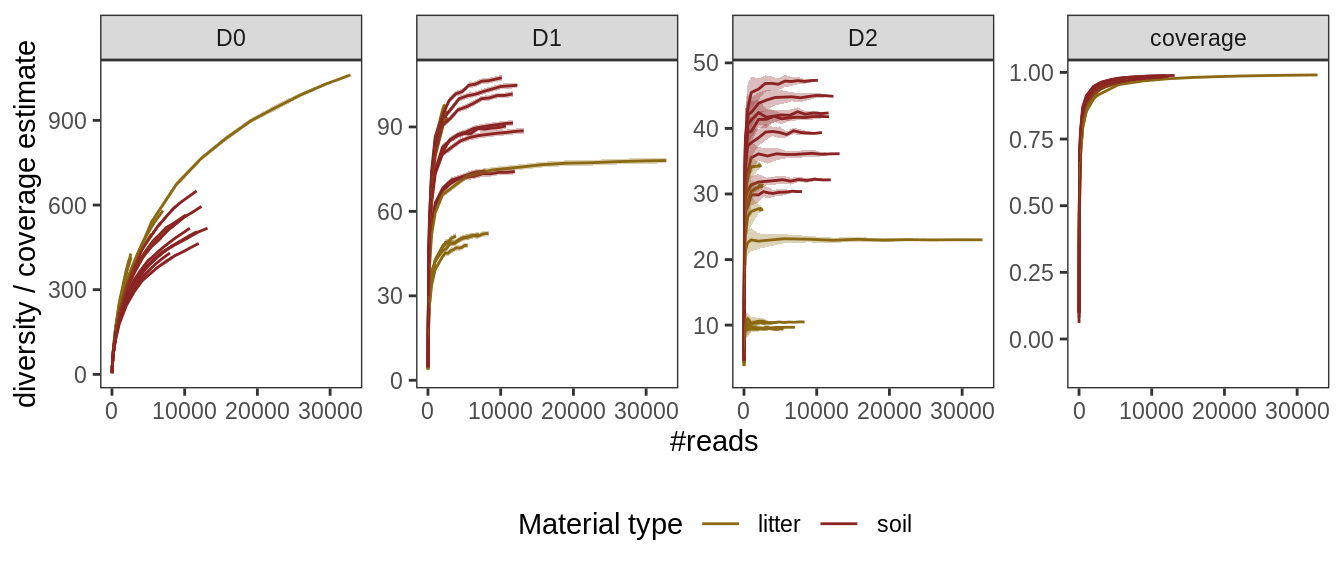
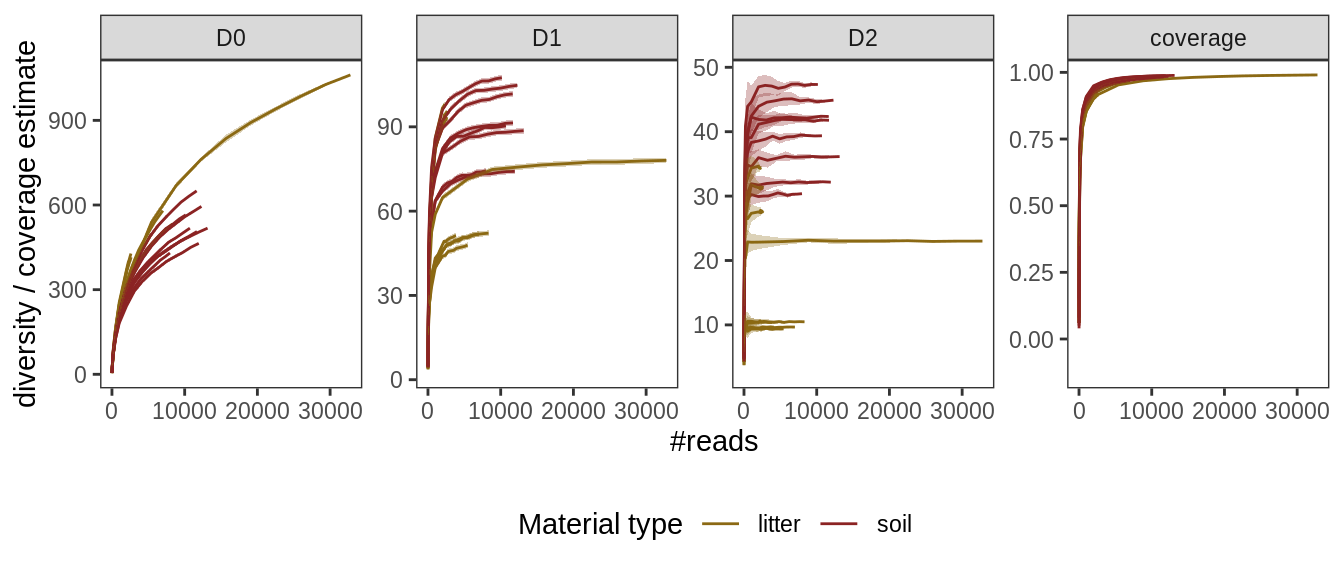
Deploy metabaRfactory/metabaR to github.com/metabaRfactory/metabaR.git:gh-pages

diff --git a/articles/metabaRF-vignette.html b/articles/metabaRF-vignette.html
@@ -79,7 +79,8 @@
 
       
 
-      </header><script src="metabaRF-vignette_files/kePrint-0.0.1/kePrint.js"></script><div class="row">
+      </header><script src="metabaRF-vignette_files/kePrint-0.0.1/kePrint.js"></script><link href="metabaRF-vignette_files/lightable-0.0.1/lightable.css" rel="stylesheet">
+<div class="row">
   <div class="col-md-9 contents">
     <div class="page-header toc-ignore">
       <h1 data-toc-skip>Let’s metabaR!</h1>
@@ -89,7 +90,7 @@
             <address class="author_afil">
       Evolution et Diversité Biologique (EDB UMR5174), Université Toulouse 3 Paul Sabatier, CNRS, IRD - Toulouse, France.<br><h4 class="author">Clément Lionnet, Frédéric Boyer</h4>
             <address class="author_afil">
-      Univ. Grenoble Alpes, CNRS, Univ. Savoie Mont Blanc, LECA, Laboratoire d’Ecologie Alpine, F-38000 Grenoble, France.<br><h4 class="date">2020-08-23</h4>
+      Univ. Grenoble Alpes, CNRS, Univ. Savoie Mont Blanc, LECA, Laboratoire d’Ecologie Alpine, F-38000 Grenoble, France.<br><h4 class="date">2020-09-03</h4>
       
       <small class="dont-index">Source: <a href="https://github.com/metabaRfactory/metabaR/blob/master/vignettes/metabaRF-vignette.Rmd"><code>vignettes/metabaRF-vignette.Rmd</code></a></small>
       <div class="hidden name"><code>metabaRF-vignette.Rmd</code></div>
@@ -126,7 +127,7 @@
 </ul>
 <p>To install <code>metabaR</code>, use :</p>
 <div class="sourceCode" id="cb1"><html><body><pre class="r"><span class="fu"><a href="https://rdrr.io/r/utils/install.packages.html">install.packages</a></span>(<span class="st">"devtools"</span>)
-<span class="kw pkg">devtools</span><span class="kw ns">::</span><span class="fu">install_github</span>(<span class="st">"metabaRactory/metabaR"</span>)</pre></body></html></div>
+<span class="kw pkg">devtools</span><span class="kw ns">::</span><span class="fu"><a href="https://devtools.r-lib.org//reference/remote-reexports.html">install_github</a></span>(<span class="st">"metabaRactory/metabaR"</span>)</pre></body></html></div>
 <p>And then load the package</p>
 <div class="sourceCode" id="cb2"><html><body><pre class="r"><span class="fu"><a href="https://rdrr.io/r/base/library.html">library</a></span>(<span class="no">metabaR</span>) <span class="co"># modify the name once we'll all agree on that</span></pre></body></html></div>
 </div>
@@ -381,19 +382,19 @@ These are the value of <span class="math inline">\(q\)</span> for which <code>me
 <div class="sourceCode" id="cb15"><html><body><pre class="r"><span class="no">soil_euk_h20.raref</span> <span class="kw">=</span> <span class="fu"><a href="https://rdrr.io/pkg/metabaR/man/hill_rarefaction.html">hill_rarefaction</a></span>(<span class="no">soil_euk_h20</span>, <span class="kw">nboot</span> <span class="kw">=</span> <span class="fl">20</span>, <span class="kw">nsteps</span> <span class="kw">=</span> <span class="fl">10</span>)
 <span class="fu"><a href="https://rdrr.io/r/utils/head.html">head</a></span>(<span class="no">soil_euk_h20.raref</span>$<span class="no">hill_table</span>)
 <span class="co">#&gt;      pcr_id reads     D0     D0.sd        D1    D1.sd        D2     D2.sd</span>
-<span class="co">#&gt; 1 H20-As_r1     5   4.65 0.5871429  4.537596 1.176790  4.531746 0.7524388</span>
-<span class="co">#&gt; 2 H20-As_r1    10   9.30 0.7326951  9.075192 1.106911  8.904762 1.0935478</span>
-<span class="co">#&gt; 3 H20-As_r1   100  51.25 4.0114966 37.238458 1.117569 27.022478 3.6506249</span>
-<span class="co">#&gt; 4 H20-As_r1   200  81.05 5.4529084 49.509507 1.093183 30.808417 2.9273821</span>
-<span class="co">#&gt; 5 H20-As_r1   500 138.25 6.8815161 62.715492 1.060236 33.391754 2.0118522</span>
-<span class="co">#&gt; 6 H20-As_r1  1000 201.20 7.1935644 73.316953 1.055629 35.530710 2.3918004</span>
+<span class="co">#&gt; 1 H20-As_r1     5   4.85 0.3663475  4.796321 1.106911  4.785714 0.5233536</span>
+<span class="co">#&gt; 2 H20-As_r1    10   8.70 1.0809353  8.285592 1.174801  8.040675 1.5124624</span>
+<span class="co">#&gt; 3 H20-As_r1   100  52.50 3.5168766 38.834288 1.104965 28.386305 3.8977531</span>
+<span class="co">#&gt; 4 H20-As_r1   200  78.45 4.6845210 48.304097 1.088265 31.174549 3.4821922</span>
+<span class="co">#&gt; 5 H20-As_r1   500 138.70 5.6577846 64.861087 1.064478 34.839245 2.7249144</span>
+<span class="co">#&gt; 6 H20-As_r1  1000 200.05 6.3035078 71.950104 1.053275 34.555516 2.3278296</span>
 <span class="co">#&gt;   coverage coverage.sd</span>
-<span class="co">#&gt; 1  0.14000 0.234857179</span>
-<span class="co">#&gt; 2  0.14000 0.146539019</span>
-<span class="co">#&gt; 3  0.66000 0.046566308</span>
-<span class="co">#&gt; 4  0.74675 0.026171248</span>
-<span class="co">#&gt; 5  0.84130 0.013981567</span>
-<span class="co">#&gt; 6  0.89900 0.006688561</span></pre></body></html></div>
+<span class="co">#&gt; 1   0.0600 0.146539019</span>
+<span class="co">#&gt; 2   0.2450 0.198613616</span>
+<span class="co">#&gt; 3   0.6550 0.040065735</span>
+<span class="co">#&gt; 4   0.7605 0.026252819</span>
+<span class="co">#&gt; 5   0.8461 0.014385300</span>
+<span class="co">#&gt; 6   0.8978 0.008010519</span></pre></body></html></div>
 <p>The <code>hill_rarefaction</code> function produces an object with several elements. The most relevant one is the <code>hill_table</code> a table indicating the <code>pcr_id</code>, the sequencing depth at which the <em>pcr</em> was resampled, and the corresponding diversity / coverage indices. The output of <code>hill_rarefaction</code> can be used to draw rarefaction curves.</p>
 <div class="sourceCode" id="cb16"><html><body><pre class="r"><span class="fu"><a href="https://rdrr.io/pkg/metabaR/man/hill_rarefaction.html">gghill_rarefaction</a></span>(<span class="no">soil_euk_h20.raref</span>)</pre></body></html></div>
 <p><img src="metabaRF-vignette_files/figure-html/gghill-1.png" width="672" style="display: block; margin: auto;"></p>

diff --git a/articles/metabaRF-vignette_files/lightable-0.0.1/lightable.css b/articles/metabaRF-vignette_files/lightable-0.0.1/lightable.css
@@ -1,0 +1,234 @@
+/*!
+ * lightable v0.0.1
+ * Copyright 2020 Hao Zhu
+ * Licensed under MIT (https://github.com/haozhu233/kableExtra/blob/master/LICENSE)
+ */
+
+.lightable-minimal {
+  border-collapse: separate;
+  border-spacing: 16px 1px;
+  width: 100%;
+  margin-bottom: 10px;
+}
+
+.lightable-minimal td {
+  margin-left: 5px;
+  margin-right: 5px;
+}
+
+.lightable-minimal th {
+  margin-left: 5px;
+  margin-right: 5px;
+}
+
+.lightable-minimal thead tr:last-child th {
+  border-bottom: 2px solid #00000050;
+  empty-cells: hide;
+
+}
+
+.lightable-minimal tbody tr:first-child td {
+  padding-top: 0.5em;
+}
+
+.lightable-minimal.lightable-hover tbody tr:hover {
+  background-color: #f5f5f5;
+}
+
+.lightable-minimal.lightable-striped tbody tr:nth-child(even) {
+  background-color: #f5f5f5;
+}
+
+.lightable-classic {
+  border-top: 0.16em solid #111111;
+  width: 100%;
+  margin-bottom: 10px;
+  margin: 10px 5px;
+}
+
+.lightable-classic caption {
+  color: #222222;
+}
+
+.lightable-classic td {
+  padding-left: 5px;
+  padding-right: 5px;
+  color: #222222;
+}
+
+.lightable-classic th {
+  padding-left: 5px;
+  padding-right: 5px;
+  font-weight: normal;
+  color: #222222;
+}
+
+.lightable-classic thead tr:last-child th {
+  border-bottom: 0.10em solid #111111;
+}
+
+.lightable-classic tbody tr:last-child td {
+  border-bottom: 0.14em solid #111111;
+}
+
+.lightable-classic.lightable-hover tbody tr:hover {
+  background-color: #F9EEC1;
+}
+
+.lightable-classic.lightable-striped tbody tr:nth-child(even) {
+  background-color: #f5f5f5;
+}
+
+.lightable-classic-2 {
+  border-top: 3px double #111111;
+  width: 100%;
+  margin-bottom: 10px;
+}
+
+.lightable-classic-2 caption {
+  color: #222222;
+}
+
+.lightable-classic-2 td {
+  padding-left: 5px;
+  padding-right: 5px;
+  color: #222222;
+}
+
+.lightable-classic-2 th {
+  padding-left: 5px;
+  padding-right: 5px;
+  font-weight: normal;
+  color: #222222;
+}
+
+.lightable-classic-2 tbody tr:last-child td {
+  border-bottom: 3px double #111111;
+}
+
+.lightable-classic-2 thead tr:last-child th {
+  border-bottom: 1px solid #111111;
+}
+
+.lightable-classic-2.lightable-hover tbody tr:hover {
+  background-color: #F9EEC1;
+}
+
+.lightable-classic-2.lightable-striped tbody tr:nth-child(even) {
+  background-color: #f5f5f5;
+}
+
+.lightable-material {
+  min-width: 100%;
+  white-space: nowrap;
+  table-layout: fixed;
+  font-family: Roboto, sans-serif;
+  border: 1px solid #EEE;
+  border-collapse: collapse;
+  margin-bottom: 10px;
+}
+
+.lightable-material th {
+  height: 56px;
+  padding-left: 16px;
+  padding-right: 16px;
+}
+
+.lightable-material td {
+  height: 52px;
+  padding-left: 16px;
+  padding-right: 16px;
+  border-top: 1px solid #eeeeee;
+}
+
+.lightable-material.lightable-hover tbody tr:hover {
+  background-color: #f5f5f5;
+}
+
+.lightable-material.lightable-striped tbody tr:nth-child(even) {
+  background-color: #f5f5f5;
+}
+
+.lightable-material.lightable-striped tbody td {
+  border: 0;
+}
+
+.lightable-material.lightable-striped thead tr:last-child th {
+  border-bottom: 1px solid #ddd;
+}
+
+.lightable-material-dark {
+  min-width: 100%;
+  white-space: nowrap;
+  table-layout: fixed;
+  font-family: Roboto, sans-serif;
+  border: 1px solid #FFFFFF12;
+  border-collapse: collapse;
+  margin-bottom: 10px;
+  background-color: #363640;
+}
+
+.lightable-material-dark th {
+  height: 56px;
+  padding-left: 16px;
+  padding-right: 16px;
+  color: #FFFFFF60;
+}
+
+.lightable-material-dark td {
+  height: 52px;
+  padding-left: 16px;
+  padding-right: 16px;
+  color: #FFFFFF;
+  border-top: 1px solid #FFFFFF12;
+}
+
+.lightable-material-dark.lightable-hover tbody tr:hover {
+  background-color: #FFFFFF12;
+}
+
+.lightable-material-dark.lightable-striped tbody tr:nth-child(even) {
+  background-color: #FFFFFF12;
+}
+
+.lightable-material-dark.lightable-striped tbody td {
+  border: 0;
+}
+
+.lightable-material-dark.lightable-striped thead tr:last-child th {
+  border-bottom: 1px solid #FFFFFF12;
+}
+
+.lightable-paper {
+  width: 100%;
+  margin-bottom: 10px;
+  color: #444;
+}
+
+.lightable-paper thead tr:last-child th {
+  color: #666;
+  vertical-align: bottom;
+  border-bottom: 1px solid #00000020;
+  line-height: 1.15em;
+  padding: 10px 5px;
+}
+
+.lightable-paper td {
+  vertical-align: middle;
+  border-bottom: 1px solid #00000010;
+  line-height: 1.15em;
+  padding: 7px 5px;
+}
+
+.lightable-paper.lightable-hover tbody tr:hover {
+  background-color: #F9EEC1;
+}
+
+.lightable-paper.lightable-striped tbody tr:nth-child(even) {
+  background-color: #00000008;
+}
+
+.lightable-paper.lightable-striped tbody td {
+  border: 0;
+}
+

diff --git a/index.html b/index.html
@@ -106,7 +106,7 @@
 <a href="#installation" class="anchor"></a>Installation</h2>
 <p><code>metabaR</code> can be installed from GitHub using:</p>
 <div class="sourceCode" id="cb1"><pre class="r"><span class="fu"><a href="https://rdrr.io/r/utils/install.packages.html">install.packages</a></span>(<span class="st">"devtools"</span>)
-<span class="kw pkg">devtools</span><span class="kw ns">::</span><span class="fu">install_github</span>(<span class="st">"metabaRfactory/metabaR"</span>)</pre></div>
+<span class="kw pkg">devtools</span><span class="kw ns">::</span><span class="fu"><a href="https://devtools.r-lib.org//reference/remote-reexports.html">install_github</a></span>(<span class="st">"metabaRfactory/metabaR"</span>)</pre></div>
 <p>Package dependencies:<br>
 - for graphical purposes: <code>igraph</code>, <code>ggplot2</code> and <code>cowplot</code><br>
 - for formatting purposes: <code>reshape2</code>, <code>seqinr</code>, <code>biomformat</code><br>
